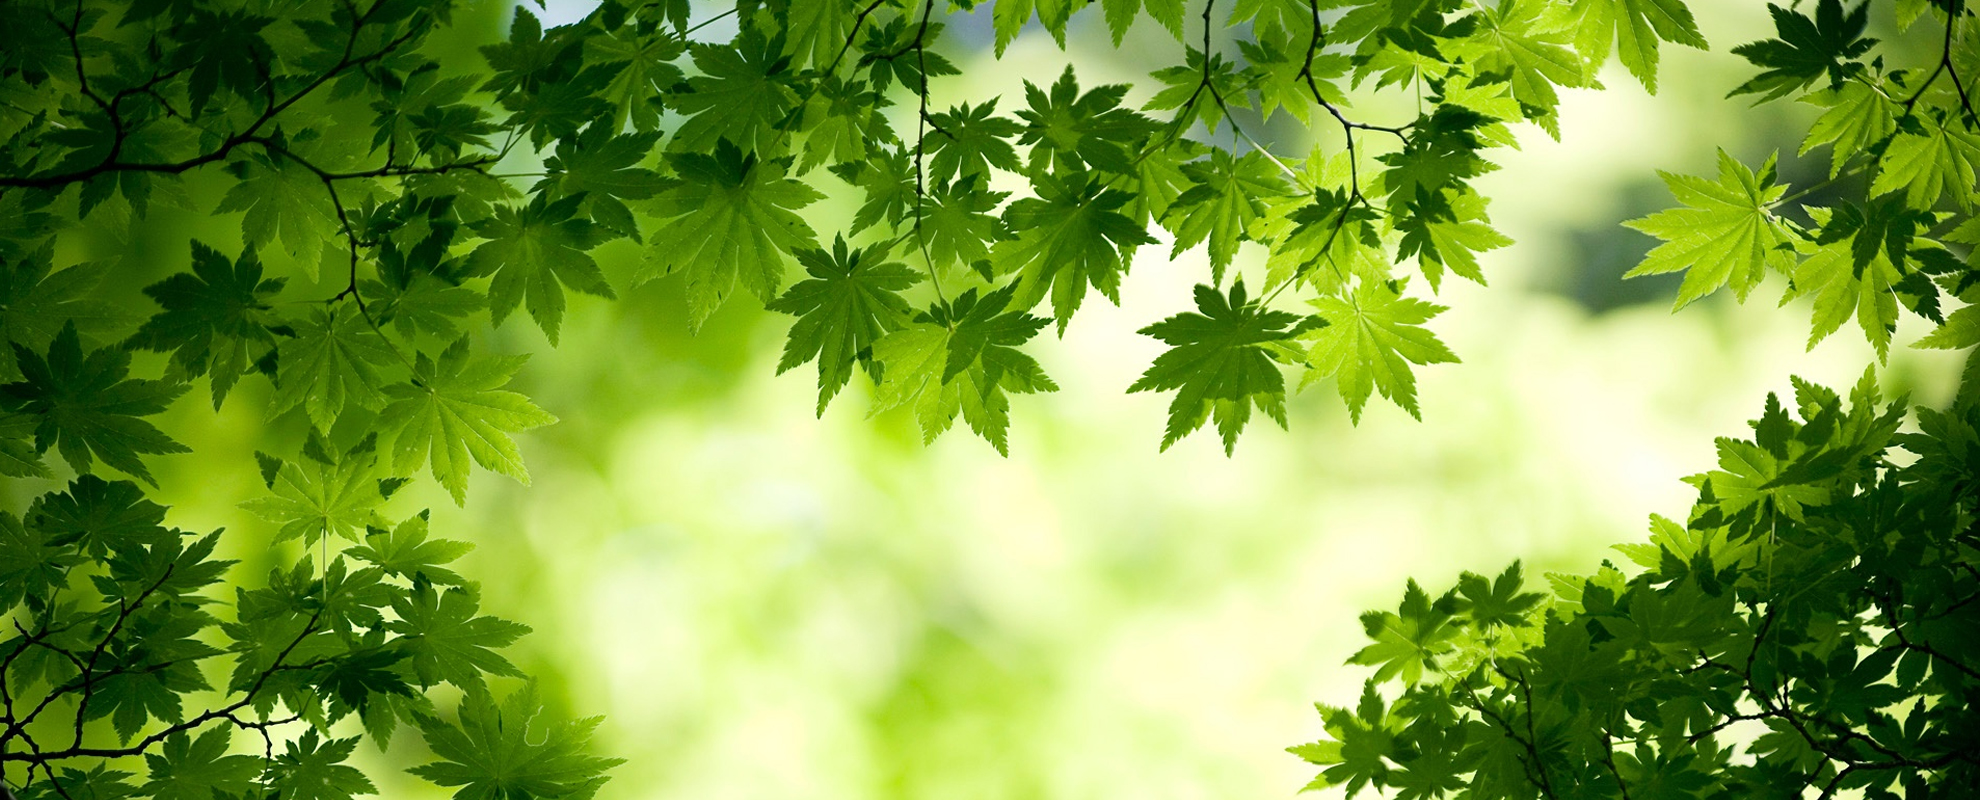
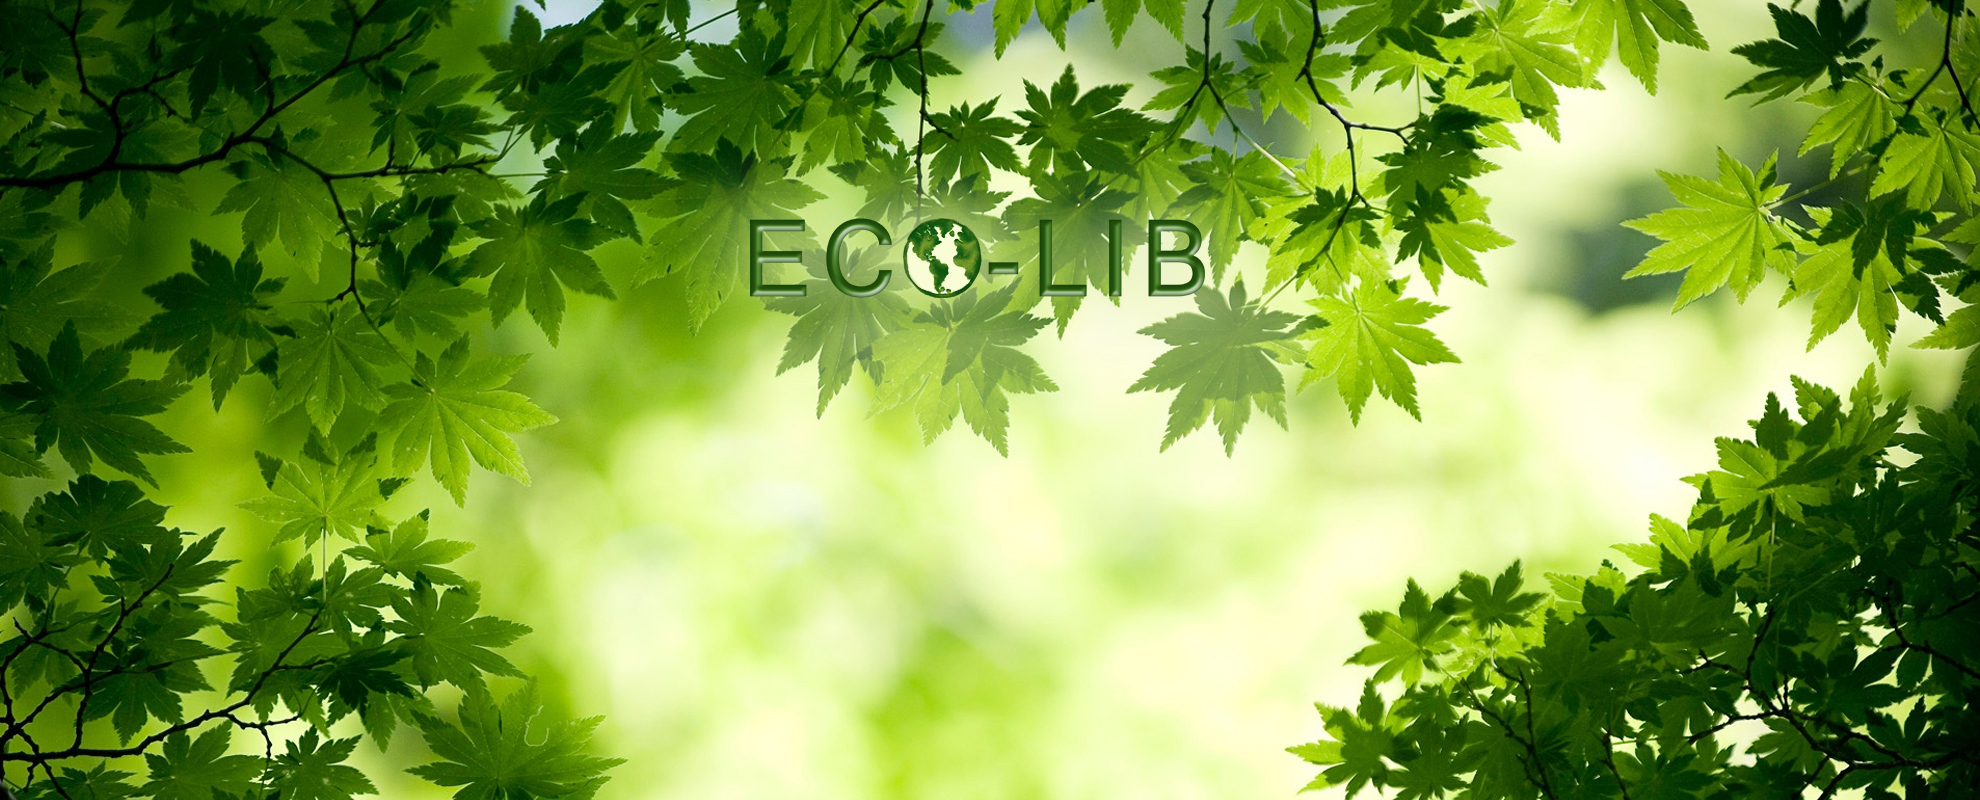
homepage image

Changed region(s): [[0.3389, 0.2188, 0.6778, 0.5938]]

diff --git a/EcoLibFoundation/EcoLibFoundationOfficialSite/js/IntroJ.js b/EcoLibFoundation/EcoLibFoundationOfficialSite/js/IntroJ.js
@@ -1,4 +1,10 @@
 /* Modernizr 2.5.3 (Custom Build) | MIT & BSD
  * Build: http://www.modernizr.com/download/#-cssanimations-shiv-cssclasses-testprop-testallprops-domprefixes-load
  */
-;window.Modernizr=function(a,b,c){function x(a){j.cssText=a}function y(a,b){return x(prefixes.join(a+";")+(b||""))}function z(a,b){return typeof a===b}function A(a,b){return!!~(""+a).indexOf(b)}function B(a,b){for(var d in a)if(j[a[d]]!==c)return b=="pfx"?a[d]:!0;return!1}function C(a,b,d){for(var e in a){var f=b[a[e]];if(f!==c)return d===!1?a[e]:z(f,"function")?f.bind(d||b):f}return!1}function D(a,b,c){var d=a.charAt(0).toUpperCase()+a.substr(1),e=(a+" "+n.join(d+" ")+d).split(" ");return z(b,"string")||z(b,"undefined")?B(e,b):(e=(a+" "+o.join(d+" ")+d).split(" "),C(e,b,c))}var d="2.5.3",e={},f=!0,g=b.documentElement,h="modernizr",i=b.createElement(h),j=i.style,k,l={}.toString,m="Webkit Moz O ms",n=m.split(" "),o=m.toLowerCase().split(" "),p={},q={},r={},s=[],t=s.slice,u,v={}.hasOwnProperty,w;!z(v,"undefined")&&!z(v.call,"undefined")?w=function(a,b){return v.call(a,b)}:w=function(a,b){return b in a&&z(a.constructor.prototype[b],"undefined")},Function.prototype.bind||(Function.prototype.bind=function(b){var c=this;if(typeof c!="function")throw new TypeError;var d=t.call(arguments,1),e=function(){if(this instanceof e){var a=function(){};a.prototype=c.prototype;var f=new a,g=c.apply(f,d.concat(t.call(arguments)));return Object(g)===g?g:f}return c.apply(b,d.concat(t.call(arguments)))};return e}),p.cssanimations=function(){return D("animationName")};for(var E in p)w(p,E)&&(u=E.toLowerCase(),e[u]=p[E](),s.push((e[u]?"":"no-")+u));return x(""),i=k=null,function(a,b){function g(a,b){var c=a.createElement("p"),d=a.getElementsByTagName("head")[0]||a.documentElement;return c.innerHTML="x<style>"+b+"</style>",d.insertBefore(c.lastChild,d.firstChild)}function h(){var a=k.elements;return typeof a=="string"?a.split(" "):a}function i(a){var b={},c=a.createElement,e=a.createDocumentFragment,f=e();a.createElement=function(a){var e=(b[a]||(b[a]=c(a))).cloneNode();return k.shivMethods&&e.canHaveChildren&&!d.test(a)?f.appendChild(e):e},a.createDocumentFragment=Function("h,f","return function(){var n=f.cloneNode(),c=n.createElement;h.shivMethods&&("+h().join().replace(/\w+/g,function(a){return b[a]=c(a),f.createElement(a),'c("'+a+'")'})+");return n}")(k,f)}function j(a){var b;return a.documentShived?a:(k.shivCSS&&!e&&(b=!!g(a,"article,aside,details,figcaption,figure,footer,header,hgroup,nav,section{display:block}audio{display:none}canvas,video{display:inline-block;*display:inline;*zoom:1}[hidden]{display:none}audio[controls]{display:inline-block;*display:inline;*zoom:1}mark{background:#FF0;color:#000}")),f||(b=!i(a)),b&&(a.documentShived=b),a)}var c=a.html5||{},d=/^<|^(?:button|form|map|select|textarea)$/i,e,f;(function(){var a=b.createElement("a");a.innerHTML="<xyz></xyz>",e="hidden"in a,f=a.childNodes.length==1||function(){try{b.createElement("a")}catch(a){return!0}var c=b.createDocumentFragment();return typeof c.cloneNode=="undefined"||typeof c.createDocumentFragment=="undefined"||typeof c.createElement=="undefined"}()})();var k={elements:c.elements||"abbr article aside audio bdi canvas data datalist details figcaption figure footer header hgroup mark meter nav output progress section summary time video",shivCSS:c.shivCSS!==!1,shivMethods:c.shivMethods!==!1,type:"default",shivDocument:j};a.html5=k,j(b)}(this,b),e._version=d,e._domPrefixes=o,e._cssomPrefixes=n,e.testProp=function(a){return B([a])},e.testAllProps=D,g.className=g.className.replace(/(^|\s)no-js(\s|$)/,"$1$2")+(f?" js "+s.join(" "):""),e}(this,this.document),function(a,b,c){function d(a){return o.call(a)=="[object Function]"}function e(a){return typeof a=="string"}function f(){}function g(a){return!a||a=="loaded"||a=="complete"||a=="uninitialized"}function h(){var a=p.shift();q=1,a?a.t?m(function(){(a.t=="c"?B.injectCss:B.injectJs)(a.s,0,a.a,a.x,a.e,1)},0):(a(),h()):q=0}function i(a,c,d,e,f,i,j){function k(b){if(!o&&g(l.readyState)&&(u.r=o=1,!q&&h(),l.onload=l.onreadystatechange=null,b)){a!="img"&&m(function(){t.removeChild(l)},50);for(var d in y[c])y[c].hasOwnProperty(d)&&y[c][d].onload()}}var j=j||B.errorTimeout,l={},o=0,r=0,u={t:d,s:c,e:f,a:i,x:j};y[c]===1&&(r=1,y[c]=[],l=b.createElement(a)),a=="object"?l.data=c:(l.src=c,l.type=a),l.width=l.height="0",l.onerror=l.onload=l.onreadystatechange=function(){k.call(this,r)},p.splice(e,0,u),a!="img"&&(r||y[c]===2?(t.insertBefore(l,s?null:n),m(k,j)):y[c].push(l))}function j(a,b,c,d,f){return q=0,b=b||"j",e(a)?i(b=="c"?v:u,a,b,this.i++,c,d,f):(p.splice(this.i++,0,a),p.length==1&&h()),this}function k(){var a=B;return a.loader={load:j,i:0},a}var l=b.documentElement,m=a.setTimeout,n=b.getElementsByTagName("script")[0],o={}.toString,p=[],q=0,r="MozAppearance"in l.style,s=r&&!!b.createRange().compareNode,t=s?l:n.parentNode,l=a.opera&&o.call(a.opera)=="[object Opera]",l=!!b.attachEvent&&!l,u=r?"object":l?"script":"img",v=l?"script":u,w=Array.isArray||function(a){return o.call(a)=="[object Array]"},x=[],y={},z={timeout:function(a,b){return b.length&&(a.timeout=b[0]),a}},A,B;B=function(a){function b(a){var a=a.split("!"),b=x.length,c=a.pop(),d=a.length,c={url:c,origUrl:c,prefixes:a},e,f,g;for(f=0;f<d;f++)g=a[f].split("="),(e=z[g.shift()])&&(c=e(c,g));for(f=0;f<b;f++)c=x[f](c);return c}function g(a,e,f,g,i){var j=b(a),l=j.autoCallback;j.url.split(".").pop().split("?").shift(),j.bypass||(e&&(e=d(e)?e:e[a]||e[g]||e[a.split("/").pop().split("?")[0]]||h),j.instead?j.instead(a,e,f,g,i):(y[j.url]?j.noexec=!0:y[j.url]=1,f.load(j.url,j.forceCSS||!j.forceJS&&"css"==j.url.split(".").pop().split("?").shift()?"c":c,j.noexec,j.attrs,j.timeout),(d(e)||d(l))&&f.load(function(){k(),e&&e(j.origUrl,i,g),l&&l(j.origUrl,i,g),y[j.url]=2})))}function i(a,b){function c(a,c){if(a){if(e(a))c||(j=function(){var a=[].slice.call(arguments);k.apply(this,a),l()}),g(a,j,b,0,h);else if(Object(a)===a)for(n in m=function(){var b=0,c;for(c in a)a.hasOwnProperty(c)&&b++;return b}(),a)a.hasOwnProperty(n)&&(!c&&!--m&&(d(j)?j=function(){var a=[].slice.call(arguments);k.apply(this,a),l()}:j[n]=function(a){return function(){var b=[].slice.call(arguments);a&&a.apply(this,b),l()}}(k[n])),g(a[n],j,b,n,h))}else!c&&l()}var h=!!a.test,i=a.load||a.both,j=a.callback||f,k=j,l=a.complete||f,m,n;c(h?a.yep:a.nope,!!i),i&&c(i)}var j,l,m=this.yepnope.loader;if(e(a))g(a,0,m,0);else if(w(a))for(j=0;j<a.length;j++)l=a[j],e(l)?g(l,0,m,0):w(l)?B(l):Object(l)===l&&i(l,m);else Object(a)===a&&i(a,m)},B.addPrefix=function(a,b){z[a]=b},B.addFilter=function(a){x.push(a)},B.errorTimeout=1e4,b.readyState==null&&b.addEventListener&&(b.readyState="loading",b.addEventListener("DOMContentLoaded",A=function(){b.removeEventListener("DOMContentLoaded",A,0),b.readyState="complete"},0)),a.yepnope=k(),a.yepnope.executeStack=h,a.yepnope.injectJs=function(a,c,d,e,i,j){var k=b.createElement("script"),l,o,e=e||B.errorTimeout;k.src=a;for(o in d)k.setAttribute(o,d[o]);c=j?h:c||f,k.onreadystatechange=k.onload=function(){!l&&g(k.readyState)&&(l=1,c(),k.onload=k.onreadystatechange=null)},m(function(){l||(l=1,c(1))},e),i?k.onload():n.parentNode.insertBefore(k,n)},a.yepnope.injectCss=function(a,c,d,e,g,i){var e=b.createElement("link"),j,c=i?h:c||f;e.href=a,e.rel="stylesheet",e.type="text/css";for(j in d)e.setAttribute(j,d[j]);g||(n.parentNode.insertBefore(e,n),m(c,0))}}(this,document),Modernizr.load=function(){yepnope.apply(window,[].slice.call(arguments,0))};
+; window.Modernizr = function (a, b, c) { function x(a) { j.cssText = a } function y(a, b) { return x(prefixes.join(a + ";") + (b || "")) } function z(a, b) { return typeof a === b } function A(a, b) { return !!~("" + a).indexOf(b) } function B(a, b) { for (var d in a) if (j[a[d]] !== c) return b == "pfx" ? a[d] : !0; return !1 } function C(a, b, d) { for (var e in a) { var f = b[a[e]]; if (f !== c) return d === !1 ? a[e] : z(f, "function") ? f.bind(d || b) : f } return !1 } function D(a, b, c) { var d = a.charAt(0).toUpperCase() + a.substr(1), e = (a + " " + n.join(d + " ") + d).split(" "); return z(b, "string") || z(b, "undefined") ? B(e, b) : (e = (a + " " + o.join(d + " ") + d).split(" "), C(e, b, c)) } var d = "2.5.3", e = {}, f = !0, g = b.documentElement, h = "modernizr", i = b.createElement(h), j = i.style, k, l = {}.toString, m = "Webkit Moz O ms", n = m.split(" "), o = m.toLowerCase().split(" "), p = {}, q = {}, r = {}, s = [], t = s.slice, u, v = {}.hasOwnProperty, w; !z(v, "undefined") && !z(v.call, "undefined") ? w = function (a, b) { return v.call(a, b) } : w = function (a, b) { return b in a && z(a.constructor.prototype[b], "undefined") }, Function.prototype.bind || (Function.prototype.bind = function (b) { var c = this; if (typeof c != "function") throw new TypeError; var d = t.call(arguments, 1), e = function () { if (this instanceof e) { var a = function () { }; a.prototype = c.prototype; var f = new a, g = c.apply(f, d.concat(t.call(arguments))); return Object(g) === g ? g : f } return c.apply(b, d.concat(t.call(arguments))) }; return e }), p.cssanimations = function () { return D("animationName") }; for (var E in p) w(p, E) && (u = E.toLowerCase(), e[u] = p[E](), s.push((e[u] ? "" : "no-") + u)); return x(""), i = k = null, function (a, b) { function g(a, b) { var c = a.createElement("p"), d = a.getElementsByTagName("head")[0] || a.documentElement; return c.innerHTML = "x<style>" + b + "</style>", d.insertBefore(c.lastChild, d.firstChild) } function h() { var a = k.elements; return typeof a == "string" ? a.split(" ") : a } function i(a) { var b = {}, c = a.createElement, e = a.createDocumentFragment, f = e(); a.createElement = function (a) { var e = (b[a] || (b[a] = c(a))).cloneNode(); return k.shivMethods && e.canHaveChildren && !d.test(a) ? f.appendChild(e) : e }, a.createDocumentFragment = Function("h,f", "return function(){var n=f.cloneNode(),c=n.createElement;h.shivMethods&&(" + h().join().replace(/\w+/g, function (a) { return b[a] = c(a), f.createElement(a), 'c("' + a + '")' }) + ");return n}")(k, f) } function j(a) { var b; return a.documentShived ? a : (k.shivCSS && !e && (b = !!g(a, "article,aside,details,figcaption,figure,footer,header,hgroup,nav,section{display:block}audio{display:none}canvas,video{display:inline-block;*display:inline;*zoom:1}[hidden]{display:none}audio[controls]{display:inline-block;*display:inline;*zoom:1}mark{background:#FF0;color:#000}")), f || (b = !i(a)), b && (a.documentShived = b), a) } var c = a.html5 || {}, d = /^<|^(?:button|form|map|select|textarea)$/i, e, f; (function () { var a = b.createElement("a"); a.innerHTML = "<xyz></xyz>", e = "hidden" in a, f = a.childNodes.length == 1 || function () { try { b.createElement("a") } catch (a) { return !0 } var c = b.createDocumentFragment(); return typeof c.cloneNode == "undefined" || typeof c.createDocumentFragment == "undefined" || typeof c.createElement == "undefined" }() })(); var k = { elements: c.elements || "abbr article aside audio bdi canvas data datalist details figcaption figure footer header hgroup mark meter nav output progress section summary time video", shivCSS: c.shivCSS !== !1, shivMethods: c.shivMethods !== !1, type: "default", shivDocument: j }; a.html5 = k, j(b) }(this, b), e._version = d, e._domPrefixes = o, e._cssomPrefixes = n, e.testProp = function (a) { return B([a]) }, e.testAllProps = D, g.className = g.className.replace(/(^|\s)no-js(\s|$)/, "$1$2") + (f ? " js " + s.join(" ") : ""), e }(this, this.document), function (a, b, c) { function d(a) { return o.call(a) == "[object Function]" } function e(a) { return typeof a == "string" } function f() { } function g(a) { return !a || a == "loaded" || a == "complete" || a == "uninitialized" } function h() { var a = p.shift(); q = 1, a ? a.t ? m(function () { (a.t == "c" ? B.injectCss : B.injectJs)(a.s, 0, a.a, a.x, a.e, 1) }, 0) : (a(), h()) : q = 0 } function i(a, c, d, e, f, i, j) { function k(b) { if (!o && g(l.readyState) && (u.r = o = 1, !q && h(), l.onload = l.onreadystatechange = null, b)) { a != "img" && m(function () { t.removeChild(l) }, 50); for (var d in y[c]) y[c].hasOwnProperty(d) && y[c][d].onload() } } var j = j || B.errorTimeout, l = {}, o = 0, r = 0, u = { t: d, s: c, e: f, a: i, x: j }; y[c] === 1 && (r = 1, y[c] = [], l = b.createElement(a)), a == "object" ? l.data = c : (l.src = c, l.type = a), l.width = l.height = "0", l.onerror = l.onload = l.onreadystatechange = function () { k.call(this, r) }, p.splice(e, 0, u), a != "img" && (r || y[c] === 2 ? (t.insertBefore(l, s ? null : n), m(k, j)) : y[c].push(l)) } function j(a, b, c, d, f) { return q = 0, b = b || "j", e(a) ? i(b == "c" ? v : u, a, b, this.i++, c, d, f) : (p.splice(this.i++, 0, a), p.length == 1 && h()), this } function k() { var a = B; return a.loader = { load: j, i: 0 }, a } var l = b.documentElement, m = a.setTimeout, n = b.getElementsByTagName("script")[0], o = {}.toString, p = [], q = 0, r = "MozAppearance" in l.style, s = r && !!b.createRange().compareNode, t = s ? l : n.parentNode, l = a.opera && o.call(a.opera) == "[object Opera]", l = !!b.attachEvent && !l, u = r ? "object" : l ? "script" : "img", v = l ? "script" : u, w = Array.isArray || function (a) { return o.call(a) == "[object Array]" }, x = [], y = {}, z = { timeout: function (a, b) { return b.length && (a.timeout = b[0]), a } }, A, B; B = function (a) { function b(a) { var a = a.split("!"), b = x.length, c = a.pop(), d = a.length, c = { url: c, origUrl: c, prefixes: a }, e, f, g; for (f = 0; f < d; f++) g = a[f].split("="), (e = z[g.shift()]) && (c = e(c, g)); for (f = 0; f < b; f++) c = x[f](c); return c } function g(a, e, f, g, i) { var j = b(a), l = j.autoCallback; j.url.split(".").pop().split("?").shift(), j.bypass || (e && (e = d(e) ? e : e[a] || e[g] || e[a.split("/").pop().split("?")[0]] || h), j.instead ? j.instead(a, e, f, g, i) : (y[j.url] ? j.noexec = !0 : y[j.url] = 1, f.load(j.url, j.forceCSS || !j.forceJS && "css" == j.url.split(".").pop().split("?").shift() ? "c" : c, j.noexec, j.attrs, j.timeout), (d(e) || d(l)) && f.load(function () { k(), e && e(j.origUrl, i, g), l && l(j.origUrl, i, g), y[j.url] = 2 }))) } function i(a, b) { function c(a, c) { if (a) { if (e(a)) c || (j = function () { var a = [].slice.call(arguments); k.apply(this, a), l() }), g(a, j, b, 0, h); else if (Object(a) === a) for (n in m = function () { var b = 0, c; for (c in a) a.hasOwnProperty(c) && b++; return b }(), a) a.hasOwnProperty(n) && (!c && !--m && (d(j) ? j = function () { var a = [].slice.call(arguments); k.apply(this, a), l() } : j[n] = function (a) { return function () { var b = [].slice.call(arguments); a && a.apply(this, b), l() } }(k[n])), g(a[n], j, b, n, h)) } else !c && l() } var h = !!a.test, i = a.load || a.both, j = a.callback || f, k = j, l = a.complete || f, m, n; c(h ? a.yep : a.nope, !!i), i && c(i) } var j, l, m = this.yepnope.loader; if (e(a)) g(a, 0, m, 0); else if (w(a)) for (j = 0; j < a.length; j++) l = a[j], e(l) ? g(l, 0, m, 0) : w(l) ? B(l) : Object(l) === l && i(l, m); else Object(a) === a && i(a, m) }, B.addPrefix = function (a, b) { z[a] = b }, B.addFilter = function (a) { x.push(a) }, B.errorTimeout = 1e4, b.readyState == null && b.addEventListener && (b.readyState = "loading", b.addEventListener("DOMContentLoaded", A = function () { b.removeEventListener("DOMContentLoaded", A, 0), b.readyState = "complete" }, 0)), a.yepnope = k(), a.yepnope.executeStack = h, a.yepnope.injectJs = function (a, c, d, e, i, j) { var k = b.createElement("script"), l, o, e = e || B.errorTimeout; k.src = a; for (o in d) k.setAttribute(o, d[o]); c = j ? h : c || f, k.onreadystatechange = k.onload = function () { !l && g(k.readyState) && (l = 1, c(), k.onload = k.onreadystatechange = null) }, m(function () { l || (l = 1, c(1)) }, e), i ? k.onload() : n.parentNode.insertBefore(k, n) }, a.yepnope.injectCss = function (a, c, d, e, g, i) { var e = b.createElement("link"), j, c = i ? h : c || f; e.href = a, e.rel = "stylesheet", e.type = "text/css"; for (j in d) e.setAttribute(j, d[j]); g || (n.parentNode.insertBefore(e, n), m(c, 0)) } }(this, document), Modernizr.load = function () { yepnope.apply(window, [].slice.call(arguments, 0)) };
+var send = document.getElementById('contact-submit');
+if (send) {
+    send.onclick = function () {
+        this.innerHTML = '...Sending';
+    }
+}

diff --git a/EcoLibFoundation/EcoLibFoundationOfficialSite/index.html b/EcoLibFoundation/EcoLibFoundationOfficialSite/index.html
@@ -32,7 +32,7 @@
               <div class="row">
                 <div class="col-md-8 col-md-offset-2 text-center inner">
 					<div class="animatedParent">
-                        <img src="img/logo.png" class="animated fadeInDown go pop" alt="Eco lib logo" style=" width: 50%;">/>                        
+                     
 						
                         <section class="rw-wrapper animated fadeInUp">
                             <h2 class="rw-sentence">
@@ -330,39 +330,37 @@
 			</div>
 
 		</div>
-		
-		<div class="container">
+        <div class="container">
+            <div class="row marginbot-80">
+                <div class="col-md-8 col-md-offset-2">
+                    <form id="contact-form">
+                        <div class="row marginbot-20">
+                            <div class="col-md-6 xs-marginbot-20">
+                                <input type="text" class="form-control input-lg" id="name" placeholder="Enter name" required="required" />
+                            </div>
+                            <div class="col-md-6">
+                                <input type="email" class="form-control input-lg" id="email" placeholder="Enter email" required="required" />
+                            </div>
+                        </div>
+                        <div class="row">
+                            <div class="col-md-12">
+                                <div class="form-group">
+                                    <input type="text" class="form-control input-lg" id="subject" placeholder="Subject" required="required" />
+                                </div>
+                                <div class="form-group">
+                                    <textarea name="message" id="message" class="form-control" rows="4" cols="25" required="required"
+                                              placeholder="Message"></textarea>
+                                </div>
+                                <button name="submit" type="submit" id="contact-submit" class="btn btn-skin btn-lg btn-block">
+                                    Send Message
+                                </button>
+                            </div>
+                        </div>
+                    </form>
+                </div>
+            </div>
 
-			<div class="row marginbot-80">
-				<div class="col-md-8 col-md-offset-2">
-						<form id="contact-form">
-						<div class="row marginbot-20">
-							<div class="col-md-6 xs-marginbot-20">
-								<input type="text" class="form-control input-lg" id="name" placeholder="Enter name" required="required" />
-							</div>
-							<div class="col-md-6">
-								<input type="email" class="form-control input-lg" id="email" placeholder="Enter email" required="required" />
-							</div>
-						</div>
-						<div class="row">
-							<div class="col-md-12">
-								<div class="form-group">
-										<input type="text" class="form-control input-lg" id="subject" placeholder="Subject" required="required" />
-								</div>
-								<div class="form-group">
-									<textarea name="message" id="message" class="form-control" rows="4" cols="25" required="required"
-										placeholder="Message"></textarea>
-								</div>						
-								<button type="submit" class="btn btn-skin btn-lg btn-block" id="btnContactUs">
-									Send Message</button>
-							</div>
-						</div>
-						</form>
-				</div>
-			</div>	
-
-
-		</div>
+        </div>
 	</section>
 	<!-- /Section: contact -->
 
@@ -377,7 +375,7 @@
 					</ul>
 				</div>
 				<div class="col-md-6 text-right">
-					<p>&copy;Copyright 2014 - Bocor. Designed by <a href="http://bootstraptaste.com">Bootstraptaste</a></p>
+					<p>&copy;Copyright 2015 - EcoLib. Designed & Developed By CSR Xchanging</p>
 				</div>
 			</div>	
 		</div>
